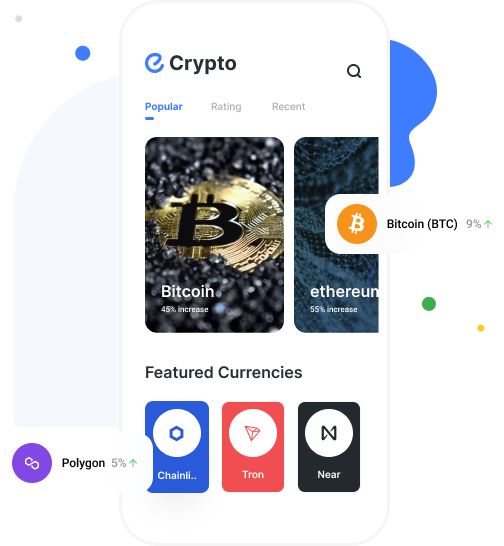
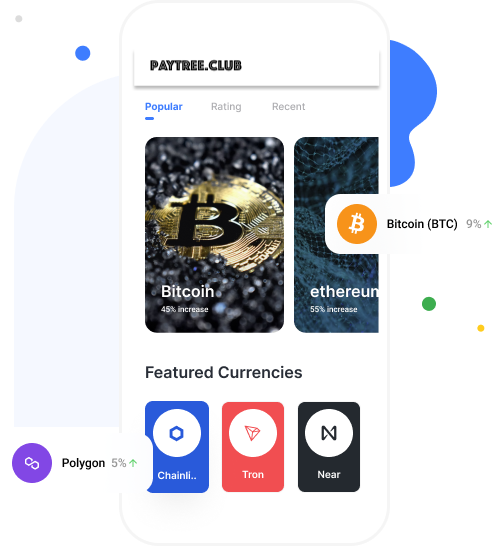
Adding UI changes on the landing page

Changed region(s): [[0.2679, 0.0934, 0.744, 0.1868]]

diff --git a/index.html b/index.html
@@ -41,8 +41,8 @@
             <div class="ud-relative ud--mx-4 ud-flex ud-items-center ud-justify-between">
                 <div class="ud-w-60 ud-max-w-full ud-px-4">
                     <a href="index.html" :class="scrolledFromTop && '!ud-py-4 lg:!ud-py-2' " class="ud-block ud-w-full ud-py-6 lg:ud-py-5">
-                        <img src="images/logo/paytree_logo.png" alt="logo" class="ud-w-full dark:ud-hidden" />
-                        <img src="images/logo/paytree_logo.png" alt="logo" class="ud-hidden ud-w-full dark:ud-block" />
+                        <img src="images/logo/logo.png" alt="logo" class="ud-w-full dark:ud-hidden" />
+                        <img src="images/logo/logo.png" alt="logo" class="ud-hidden ud-w-full dark:ud-block" />
                     </a>
                 </div>
                 <div class="ud-flex ud-w-full ud-items-center ud-justify-end ud-px-4">
@@ -158,11 +158,11 @@
                   </span>
                 </label>
                         </div>
-                        <div class="ud-hidden sm:ud-flex">
+                        <!-- <div class="ud-hidden sm:ud-flex">
                             <a href="signin.html" class="ud-flex ud-items-center ud-justify-center ud-rounded-full ud-border ud-border-body-color-2 ud-py-[9px] ud-px-8 ud-text-base ud-font-semibold ud-text-body-color-2 ud-transition-all hover:ud-border-primary hover:ud-bg-primary hover:ud-text-white dark:ud-border-white dark:ud-text-white dark:hover:ud-bg-white dark:hover:ud-text-primary lg:px-4 xl:px-8">
                   Sign In
                 </a>
-                        </div>
+                        </div> -->
                     </div>
                 </div>
             </div>
@@ -180,7 +180,7 @@
                             Payroll management for Web3
                         </h1>
                         <p class="ud-mx-auto ud-mb-4 ud-max-w-[620px] ud-text-lg ud-font-medium ud-text-body-color-2 dark:ud-text-white">
-                            Get paid in crypto. That is the only way for mass adoption of Web3. A Crypto bank that you can trust.
+                            Get paid in crypto. That is the only way for mass adoption of Web3. PayTree provides an eat your own dog food platform for all the Crypto maxis by providing a seamless payroll management platform. A Crypto bank that you can trust.
                         </p>
 
                         <div class="ud--mx-1 ud-mb-10 ud-flex ud-flex-wrap ud-items-center ud-justify-center sm:ud--mx-2">
@@ -386,7 +386,7 @@
                             </div>-->
                         </div>
 
-                        <a href="javascript:void(0)" class="ud-rounded-full ud-bg-primary ud-py-3 ud-px-8 ud-text-base ud-font-semibold ud-text-white hover:ud-bg-opacity-90 dark:hover:bg-opacity-90">
+                        <a href="https://www.paytree.club/app/index.html" target="_blank" class="ud-rounded-full ud-bg-primary ud-py-3 ud-px-8 ud-text-base ud-font-semibold ud-text-white hover:ud-bg-opacity-90 dark:hover:bg-opacity-90">
                 Launch the app
               </a>
                     </div>
@@ -959,7 +959,7 @@
                     Meet out Team
                 </h2>
                 <p class="ud-text-lg ud-font-medium ud-text-body-color-2 dark:ud-text-body-color">
-                    Lorem ipsum dolor sit amet, consectetur adipiscing elit. Nunc sed congue arcu, In et dignissim quam condimentum vel.
+                    Our team comes with a good hands-on experience on Web2 & Web3 experience. We are here to change the way how people use Crypto.
                 </p>
             </div>
 
@@ -967,14 +967,14 @@
                 <div class="ud-w-full ud-px-4 sm:ud-w-1/2 lg:ud-w-1/4">
                     <div class="ud-group wow fadeInUp ud-mb-10 ud-rounded-lg ud-border-b-4 ud-border-transparent ud-bg-light-bg ud-p-4 ud-text-center ud-transition-all hover:ud-border-primary dark:ud-bg-dark" data-wow-delay="0s">
                         <div class="ud-mb-6 ud-overflow-hidden ud-rounded">
-                            <img src="images/team/image-01.jpg" alt="team" class="ud-rounded- ud-w-full" />
+                            <img src="images/team/image-01.png" alt="team" class="ud-rounded- ud-w-full" />
                         </div>
                         <div>
                             <h3 class="ud-mb-2 ud-text-lg ud-font-semibold ud-text-black dark:ud-text-white">
-                                Matheus Ferrero
+                                Karthikeyan NG
                             </h3>
                             <p class="ud-mb-3 ud-text-sm ud-font-medium ud-text-body-color-2 dark:ud-text-body-color">
-                                Marketing Expert
+                                Blockchain Developer & Product
                             </p>
 
                             <div class="ud-mb-4 ud-flex ud-items-center ud-justify-center ud-space-x-4">
@@ -1013,14 +1013,14 @@
                 <div class="ud-w-full ud-px-4 sm:ud-w-1/2 lg:ud-w-1/4">
                     <div class="ud-group wow fadeInUp ud-mb-10 ud-rounded-lg ud-border-b-4 ud-border-transparent ud-bg-light-bg ud-p-4 ud-text-center ud-transition-all hover:ud-border-primary dark:ud-bg-dark" data-wow-delay="0s">
                         <div class="ud-mb-6 ud-overflow-hidden ud-rounded">
-                            <img src="images/team/image-02.jpg" alt="team" class="ud-rounded- ud-w-full" />
+                            <img src="images/team/image-02.jpeg" alt="team" class="ud-rounded- ud-w-full" />
                         </div>
                         <div>
                             <h3 class="ud-mb-2 ud-text-lg ud-font-semibold ud-text-black dark:ud-text-white">
-                                Eva Hudson
+                                Hari Venad
                             </h3>
                             <p class="ud-mb-3 ud-text-sm ud-font-medium ud-text-body-color-2 dark:ud-text-body-color">
-                                Blockchain Developer
+                                Frontend Developer
                             </p>
 
                             <div class="ud-mb-4 ud-flex ud-items-center ud-justify-center ud-space-x-4">
@@ -1056,7 +1056,7 @@
                         </div>
                     </div>
                 </div>
-                <div class="ud-w-full ud-px-4 sm:ud-w-1/2 lg:ud-w-1/4">
+                <!-- <div class="ud-w-full ud-px-4 sm:ud-w-1/2 lg:ud-w-1/4">
                     <div class="ud-group wow fadeInUp ud-mb-10 ud-rounded-lg ud-border-b-4 ud-border-transparent ud-bg-light-bg ud-p-4 ud-text-center ud-transition-all hover:ud-border-primary dark:ud-bg-dark" data-wow-delay="0s">
                         <div class="ud-mb-6 ud-overflow-hidden ud-rounded">
                             <img src="images/team/image-03.jpg" alt="team" class="ud-rounded- ud-w-full" />
@@ -1147,13 +1147,13 @@
                             </div>
                         </div>
                     </div>
-                </div>
+                </div> -->
             </div>
         </div>
     </section>
     <!-- ===== Team Section end ===== -->
 
-    <!-- ===== Testimonial Section start ===== -->
+    <!-- ===== Testimonial Section start ===== 
     <section id="testimonial" class="ud-bg-light-bg ud-pt-[120px] ud-pb-20 dark:ud-bg-[#14102C]">
         <div class="ud-container">
             <div class="wow fadeInUp ud-mx-auto ud-mb-16 ud-max-w-[590px] ud-text-center md:ud-mb-20" data-wow-delay="0s">
@@ -1272,7 +1272,7 @@
             </div>
         </div>
     </section>
-    <!-- ===== Testimonial Section end ===== -->
+     ===== Testimonial Section end ===== -->
 
     <!-- ===== Download Section start ===== -->
     <section id="download" class="ud-py-24">
@@ -1281,13 +1281,15 @@
                 <div class="ud-w-full ud-px-4 lg:ud-w-1/2">
                     <div class="wow fadeInUp ud-mb-12 ud-max-w-[500px] lg:ud-mb-0" data-wow-delay="0s">
                         <span class="ud-mb-3 ud-text-lg ud-font-bold ud-uppercase ud-text-primary sm:ud-text-xl">
-                Download Our App
+                Download Our App (soon)
               </span>
                         <h2 class="ud-mb-3 ud-text-3xl ud-font-bold ud-leading-tight ud-text-black dark:ud-text-white md:ud-text-[45px]">
                             The choice is yours, we've got you covered
                         </h2>
                         <p class="ud-mb-10 ud-text-lg ud-font-medium ud-text-body-color-2 dark:ud-text-body-color">
-                            Lorem ipsum dolor sit amet, consectetur adipiscing elit. Fusce tristique, nisl ut viverra porttitor, dolor sem lacinia orci, et pretium quam mi a eros sed molestie est.
+                            PayTree sits at the intersection of banking and crypto. It is a payroll management platform for Crypto space that offers a high-yield checking account. This includes the option to set up a direct deposit and receive part or all of your cash paycheck in
+                            crypto (BTC, ETH, MATIC or USDC) in a PayTree Crypto Account or any wallet of your choice. The PayTree Debit Card(soon) will be an extension of our Checking Account and Crypto Account, so you can make everyday purchases on
+                            the go using Cash or Crypto (USDC).
                         </p>
 
                         <div class="ud--mx-3 ud-flex ud-items-center">
@@ -1369,7 +1371,7 @@
                     Frequently Asked Questions
                 </h2>
                 <p class="ud-mx-auto ud-max-w-[590px] ud-text-lg ud-font-medium ud-text-body-color-2 dark:ud-text-body-color">
-                    Lorem ipsum dolor sit amet, consectetur adipiscing elit. Nunc sed congue arcu, In et dignissim quam condimentum vel.
+                    PayTree provides an eat your own dog food platform for all the Crypto maxis by providing a seamless payroll management platform.
                 </p>
             </div>
 
@@ -1380,7 +1382,7 @@
                 <h3
                   class="ud-mr-2 ud-text-base ud-font-bold ud-text-dark dark:ud-text-white sm:ud-text-lg md:ud-text-xl"
                 >
-                  How can I participate in the ICO Token sale?
+                  What is PayTree?
                 </h3>
                 <span
                   class="icon ud-inline-flex ud-h-5 ud-w-full ud-max-w-[20px] ud-items-center ud-justify-center ud-rounded ud-bg-body-color-2 ud-text-white dark:ud-text-black dark:ud-bg-body-color ud-text-lg ud-font-semibold"
@@ -1414,8 +1416,9 @@
               </button>
                         <div x-show="openFaq1" class="faq-content">
                             <p class="ud-text-relaxed ud-pt-6 ud-text-base ud-text-body-color-2 dark:ud-text-body-color">
-                                There are many variations of passages of Lorem Ipsum available, but the majority have suffered alteration in some form, by injected humour, or randomised words which don't look even slightly believable. If you are going to use a passage of Lorem Ipsum,
-                                you need to be sure there isn't anything.
+                                PayTree sits at the intersection of banking and crypto. It is a payroll management platform for Crypto space that offers a high-yield checking account. This includes the option to set up a direct deposit and receive part or all of your cash paycheck in
+                                crypto (BTC, ETH, MATIC or USDC) in a PayTree Crypto Account or any wallet of your choice. The PayTree Debit Card(soon) will be an extension of our Checking Account and Crypto Account, so you can make everyday purchases
+                                on the go using Cash or Crypto (USDC).
                             </p>
                         </div>
                     </div>
@@ -1424,7 +1427,7 @@
                 <h3
                   class="ud-mr-2 ud-text-base ud-font-bold ud-text-dark dark:ud-text-white sm:ud-text-lg md:ud-text-xl"
                 >
-                  What is ICO Crypto?
+                  How can I get paid through PayTree?
                 </h3>
                 <span
                   class="icon ud-inline-flex ud-h-5 ud-w-full ud-max-w-[20px] ud-items-center ud-justify-center ud-rounded ud-bg-body-color-2 ud-text-white dark:ud-text-black dark:ud-bg-body-color ud-text-lg ud-font-semibold"
@@ -1458,8 +1461,8 @@
               </button>
                         <div x-show="openFaq2" class="faq-content">
                             <p class="ud-text-relaxed ud-pt-6 ud-text-base ud-text-body-color-2 dark:ud-text-body-color">
-                                There are many variations of passages of Lorem Ipsum available, but the majority have suffered alteration in some form, by injected humour, or randomised words which don't look even slightly believable. If you are going to use a passage of Lorem Ipsum,
-                                you need to be sure there isn't anything.
+                                Yes. Once your employer registered in PayTree Platform they can easily manage all their employees salaries in Crypto(BTC,ETH,MATIC,USDC). Also employees will get a debit card(soon) where they can withdraw the money in USD/AED(in talks).
+
                             </p>
                         </div>
                     </div>
@@ -1468,7 +1471,7 @@
                 <h3
                   class="ud-mr-2 ud-text-base ud-font-bold ud-text-dark dark:ud-text-white sm:ud-text-lg md:ud-text-xl"
                 >
-                  How do I benefit from the ICO Token?
+                  How do I benefit from the PayTree?
                 </h3>
                 <span
                   class="icon ud-inline-flex ud-h-5 ud-w-full ud-max-w-[20px] ud-items-center ud-justify-center ud-rounded ud-bg-body-color-2 ud-text-white dark:ud-text-black dark:ud-bg-body-color ud-text-lg ud-font-semibold"
@@ -1502,8 +1505,10 @@
               </button>
                         <div x-show="openFaq3" class="faq-content">
                             <p class="ud-text-relaxed ud-pt-6 ud-text-base ud-text-body-color-2 dark:ud-text-body-color">
-                                There are many variations of passages of Lorem Ipsum available, but the majority have suffered alteration in some form, by injected humour, or randomised words which don't look even slightly believable. If you are going to use a passage of Lorem Ipsum,
-                                you need to be sure there isn't anything.
+                                Yes. A PayTree account includes a Checking Account and a Crypto Account. You can buy crypto in three simple steps: 1. Fund your Juno Checking Account 2. Choose your crypto assets (BTC, ETH, Matic or USDC) 3. Buy your crypto assets and store them using
+                                your PayTree Crypto Account or transfer supported crypto assets to your own Wallet You can sell crypto simply by choosing the crypto assets from your Juno Crypto Account and receive USD in exchange for these assets in your
+                                PayTree Checking Account
+
                             </p>
                         </div>
                     </div>
@@ -1512,7 +1517,7 @@
                 <h3
                   class="ud-mr-2 ud-text-base ud-font-bold ud-text-dark dark:ud-text-white sm:ud-text-lg md:ud-text-xl"
                 >
-                  How can i purchase bitcoin?
+                  Do you charge any fees?
                 </h3>
                 <span
                   class="icon ud-inline-flex ud-h-5 ud-w-full ud-max-w-[20px] ud-items-center ud-justify-center ud-rounded ud-bg-body-color-2 ud-text-white dark:ud-text-black dark:ud-bg-body-color ud-text-lg ud-font-semibold"
@@ -1546,8 +1551,8 @@
               </button>
                         <div x-show="openFaq4" class="faq-content">
                             <p class="ud-text-relaxed ud-pt-6 ud-text-base ud-text-body-color-2 dark:ud-text-body-color">
-                                There are many variations of passages of Lorem Ipsum available, but the majority have suffered alteration in some form, by injected humour, or randomised words which don't look even slightly believable. If you are going to use a passage of Lorem Ipsum,
-                                you need to be sure there isn't anything.
+                                The PayTree Account is free, and PayTree currently offers no-fee crypto transactions. Crypto deposits and withdrawals are also free on our platform. There is a spread for purchasing or selling crypto set by our crypto exchange partner, which does not
+                                bring in any revenue for Paytree(Coming Soon).
                             </p>
                         </div>
                     </div>
@@ -1564,7 +1569,7 @@
     </section>
     <!-- ===== Faq Section end ===== -->
 
-    <!-- ===== Blog Section start ===== -->
+    <!-- ===== Blog Section start ===== 
     <section id="blog" class="ud-pt-[120px] ud-pb-20">
         <div class="ud-container">
             <div class="wow fadeInUp ud-mx-auto ud-mb-16 ud-max-w-[590px] ud-text-center md:ud-mb-20" data-wow-delay="0s">
@@ -1727,7 +1732,7 @@
             </div>
         </div>
     </section>
-    <!-- ===== Blog Section end ===== -->
+     ===== Blog Section end ===== -->
 
     <!-- ===== Contact Section start ===== -->
     <section id="contact" class="ud-bg-light-bg ud-py-[120px] dark:ud-bg-[#14102C]">
@@ -1760,14 +1765,14 @@
                                     Email Address
                                 </h3>
                                 <p class="ud-text-base ud-font-medium ud-leading-loose ud-text-body-color-2 dark:ud-text-body-color">
-                                    info@yourdomain.com
+                                    intrepidkarthi@gmail.com
                                 </p>
                                 <p class="ud-text-base ud-font-medium ud-leading-loose ud-text-body-color-2 dark:ud-text-body-color">
-                                    contact@yourdomain.com
+                                    harievenad@gmail.com
                                 </p>
                             </div>
                         </div>
-                        <div class="ud-w-full ud-px-4 sm:ud-w-1/2">
+                        <!-- <div class="ud-w-full ud-px-4 sm:ud-w-1/2">
                             <div class="wow fadeInUp ud-mb-11 ud-max-w-[250px]" data-wow-delay="0s">
                                 <h3 class="ud-mb-4 ud-text-lg ud-font-semibold ud-text-dark dark:ud-text-white">
                                     Phone Number
@@ -1779,7 +1784,7 @@
                                     +550 9475 4543
                                 </p>
                             </div>
-                        </div>
+                        </div> -->
                         <div class="ud-w-full ud-px-4 sm:ud-w-1/2">
                             <div class="wow fadeInUp ud-mb-11 ud-max-w-[250px]" data-wow-delay="0s">
                                 <h3 class="ud-mb-4 ud-text-lg ud-font-semibold ud-text-dark dark:ud-text-white">
@@ -1836,7 +1841,7 @@
     </section>
     <!-- ===== Contact Section end ===== -->
 
-    <!-- ===== Newsletter Section start ===== -->
+    <!-- ===== Newsletter Section start ===== 
     <section id="newsletter" class="ud-relative ud-z-10">
         <div class="ud-absolute ud-top-0 ud-left-0 ud--z-10 ud-h-[120px] ud-w-full ud-bg-light-bg dark:ud-bg-[#14102C]"></div>
         <div class="ud-container">
@@ -1886,7 +1891,7 @@
             </div>
         </div>
     </section>
-    <!-- ===== Newsletter Section end ===== -->
+     ===== Newsletter Section end ===== -->
 
     <!-- ===== Footer start ===== -->
     <footer class="ud-relative ud-z-10 ud-pt-[120px]">
@@ -1895,8 +1900,8 @@
                 <div class="ud-w-full ud-px-4 md:ud-w-1/2 lg:ud-w-4/12 xl:ud-w-4/12">
                     <div class="wow fadeInUp ud-mb-14 ud-max-w-[330px] xl:ud-mb-20" data-wow-delay="0s">
                         <a href="index.html" class="ud-mb-6 ud-inline-block">
-                            <img src="images/logo/paytree_logo.png" alt="logo" class="ud-hidden dark:ud-block" />
-                            <img src="images/logo/paytree_logo.png" alt="logo" class="dark:ud-hidden" />
+                            <img src="images/logo/logo.png" alt="logo" class="ud-hidden dark:ud-block" />
+                            <img src="images/logo/logo.png" alt="logo" class="dark:ud-hidden" />
                         </a>
                         <p class="ud-mb-10 ud-text-base ud-font-medium ud-text-body-color-2 dark:ud-text-body-color">
                             Lorem ipsum dolor sit amet, consectetur adipiscing elit. Nam vitae quam nec ante fringilla vel at erat convallis elit.
@@ -1953,20 +1958,18 @@
                             Quick Links
                         </h2>
                         <div class="ud-space-y-3">
+
                             <a href="javascript:void(0)" class="ud-block ud-text-base ud-font-medium ud-text-body-color-2 hover:ud-text-primary dark:ud-text-body-color dark:hover:ud-text-primary">
-                  What is ico
+                  Roadmap (coming soon)
                 </a>
                             <a href="javascript:void(0)" class="ud-block ud-text-base ud-font-medium ud-text-body-color-2 hover:ud-text-primary dark:ud-text-body-color dark:hover:ud-text-primary">
-                  Roadmap
+                  Whitepaper (coming soon)
                 </a>
                             <a href="javascript:void(0)" class="ud-block ud-text-base ud-font-medium ud-text-body-color-2 hover:ud-text-primary dark:ud-text-body-color dark:hover:ud-text-primary">
-                  Whitepaper
+                  Discord Channel (coming soon)
                 </a>
                             <a href="javascript:void(0)" class="ud-block ud-text-base ud-font-medium ud-text-body-color-2 hover:ud-text-primary dark:ud-text-body-color dark:hover:ud-text-primary">
-                  Social Network
-                </a>
-                            <a href="javascript:void(0)" class="ud-block ud-text-base ud-font-medium ud-text-body-color-2 hover:ud-text-primary dark:ud-text-body-color dark:hover:ud-text-primary">
-                  Join Us Now
+                  Join Us Now (coming soon)
                 </a>
                         </div>
                     </div>
@@ -1979,20 +1982,18 @@
                         </h2>
                         <div class="ud-space-y-3">
                             <a href="javascript:void(0)" class="ud-block ud-text-base ud-font-medium ud-text-body-color-2 hover:ud-text-primary dark:ud-text-body-color dark:hover:ud-text-primary">
-                  Setting & Privacy
+                  Setting & Privacy (coming soon)
                 </a>
                             <a href="javascript:void(0)" class="ud-block ud-text-base ud-font-medium ud-text-body-color-2 hover:ud-text-primary dark:ud-text-body-color dark:hover:ud-text-primary">
-                  Help & Support
+                  Help & Support (coming soon)
                 </a>
                             <a href="javascript:void(0)" class="ud-block ud-text-base ud-font-medium ud-text-body-color-2 hover:ud-text-primary dark:ud-text-body-color dark:hover:ud-text-primary">
-                  Terms & Conditions
+                  Terms & Conditions (coming soon)
                 </a>
                             <a href="javascript:void(0)" class="ud-block ud-text-base ud-font-medium ud-text-body-color-2 hover:ud-text-primary dark:ud-text-body-color dark:hover:ud-text-primary">
-                  24/7 Supports
+                  24/7 Supports (coming soon)
                 </a>
-                            <a href="javascript:void(0)" class="ud-block ud-text-base ud-font-medium ud-text-body-color-2 hover:ud-text-primary dark:ud-text-body-color dark:hover:ud-text-primary">
-                  On Point FAQ
-                </a>
+
                         </div>
                     </div>
                 </div>
@@ -2064,8 +2065,8 @@
 
             <div class="wow fadeInUp ud-border-t ud-border-[#F3F4F4] ud-py-7 ud-text-center dark:ud-border-[#2D2C4A]" data-wow-delay="0s">
                 <p class="ud-text-base ud-font-medium ud-leading-loose ud-text-body-color-2 dark:ud-text-body-color">
-                    © Crypto - all Rights Reserved, Crafted by
-                    <a href="https://uideck.com" rel="noopenner nofollow" target="_blank" class="hover:ud-text-primary">
+                    © Paytree.club - all Rights Reserved, Crafted by
+                    <a href="https://paytree.club" rel="noopenner nofollow" target="_blank" class="hover:ud-text-primary">
               UIdeck
             </a>
                 </p>
